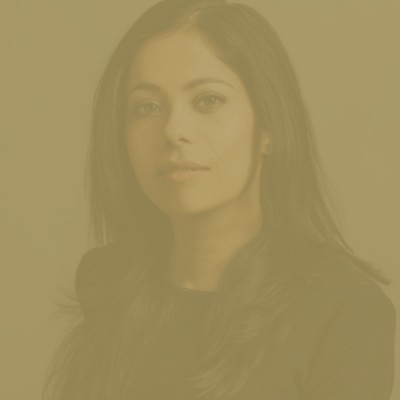
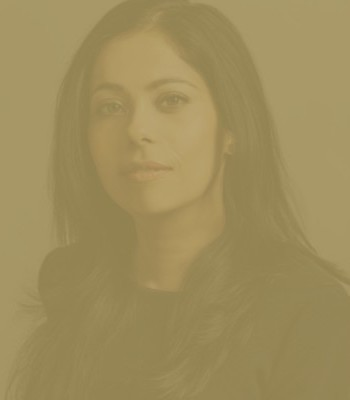
Worked on making senior professionals section responsive to different screen sizes.

diff --git a/src/Components/LandingPage/SmallSeniorExec.js b/src/Components/LandingPage/SmallSeniorExec.js
@@ -14,14 +14,14 @@ const useStyles = makeStyles(theme => ({
         position: 'absolute',
         fontSize: '18px',
         fontWeight: '100',
-        marginTop: '14%',
-        width : '23%',
+        marginTop: window.innerWidth <= 650 ? '40%' : '11%',
+        width : window.innerWidth < 900 ? window.innerWidth <= 650 ? '70%' : '35%' : '23%',
     },
     hovertext: {
         color: "white",
         fontSize: '24px',
-        width: '23%',
-        marginTop: '8%',
+        width : window.innerWidth < 900 ? window.innerWidth <= 650 ? '70%' : '35%' : '23%',
+        marginTop: window.innerWidth <= 650 ? '20%' : '4%',
         textAlign: 'center',
         position: 'absolute'
     }
@@ -59,7 +59,6 @@ class SmallSeniorExec extends Component {
   
   
   handleEnter = event => {
-       //event.preventDefault();
           this.setState({
               display2 : '',
               display1 : 'None',
@@ -70,8 +69,6 @@ class SmallSeniorExec extends Component {
   
   
   handleExit = event => {
-      //event.preventDefault();
-             
              this.setState({
              display2 : 'None',
              display1: '',
@@ -87,15 +84,15 @@ class SmallSeniorExec extends Component {
             
              <div className={classes.sectionstyle}>
 
-                <h3 className={classes.hovertext} style={{display: this.state.text}} onMouseEnter={this.handleEnter} 
+                <h3 className={classes.hovertext} style={{display: this.state.text, paddingLeft: '30px', paddingRight: '50px'}} onMouseEnter={this.handleEnter} 
                  onMouseLeave={this.handleExit}>{this.props.name_text}</h3>
-                <h3 className={classes.extratext} style={{display: this.state.text}} onMouseEnter={this.handleEnter} 
+                <h3 className={classes.extratext} style={{display: this.state.text, paddingLeft: '30px', paddingRight: '50px'}} onMouseEnter={this.handleEnter} 
                  onMouseLeave={this.handleExit}>{this.props.extra_text}</h3>
                 
-                <img style={{width: '100%', marginTop: '0vh', marginBottom:'4vh', display: this.state.display1, borderTopLeftRadius: '30%', borderBottomRightRadius: '30%'}} 
+                <img style={{width: '90%', marginTop: '0vh', marginBottom:'4vh', display: this.state.display1, borderTopLeftRadius: '5vw', borderBottomRightRadius: '12vw'}} 
                 onMouseEnter={this.handleEnter} src={this.props.image} alt="Senior Exec"/>
                 
-                <img style={{width: '100%', marginTop: '0vh', marginBottom:'4vh', display: this.state.display2, borderTopLeftRadius: '30%', borderBottomRightRadius: '30%'}} 
+                <img style={{width: '90%', marginTop: '0vh', marginBottom:'4vh', display: this.state.display2, borderTopLeftRadius: '5vw', borderBottomRightRadius: '12vw'}} 
                 onMouseLeave={this.handleExit} src={this.props.hover_image} alt="Senior Exec" /> 
 
          </div>

diff --git a/src/Components/LandingPage/SeniorExecGrid.js b/src/Components/LandingPage/SeniorExecGrid.js
@@ -48,8 +48,7 @@ class Membership extends Component {
 
 
 handleClick = event => {
-   //event.preventDefault();
-      if (window.innerWidth > '800px'){
+      if (window.innerWidth > '900px'){
           this.setState({
               phone : 'None',
               desktop : ''
@@ -68,7 +67,7 @@ handleClick = event => {
     const classes = this.props.classes;
     return(
       <div className={classes.seniorexec}>
-          <div className={classes.background} style={{display: window.innerWidth > 800 ? '' : 'None'}}>
+          <div className={classes.background} style={{display: window.innerWidth > 900 ? '' : 'None'}}>
           <Grid
             container
             spacing={2}
@@ -145,8 +144,7 @@ handleClick = event => {
             </Grid>
           </Grid>
         </div>
-
-          <div className={classes.background} style={{display: window.innerWidth > 800 ? 'None' : ''}}>
+          <div className={classes.background} style={{display: (window.innerWidth > 900 || window.innerWidth <= 650) ? 'None' : ''}}>
             <Grid
               container
               item xs={12}
@@ -157,7 +155,7 @@ handleClick = event => {
               > 
               <Grid
                 container
-                item xs={6} 
+                item xs={6}
                 alignItems="flex-end"
                 justify="flex-end"
               >
@@ -171,7 +169,7 @@ handleClick = event => {
               </Grid>
               <Grid
                 container
-                item xs={6} 
+                item xs={6}
                 spacing={0}
                 alignItems="center"
                 justify="center"
@@ -187,6 +185,32 @@ handleClick = event => {
               
               <SeniorExecText/>
               
+            </Grid>
+        </div>
+        <div className={classes.background} style={{display: window.innerWidth > 650 ? 'None' : ''}}>
+            <Grid
+              container
+              item xs={12}
+              spacing={0}
+              alignItems="center"
+              justify="center"
+              className={classes.grid}
+              > 
+              <Grid
+                container
+                item xs={12}
+                alignItems="flex-end"
+                justify="flex-end"
+              >
+              <SmallSeniorExec
+                name_text="Latafat Faran"
+                extra_text="Executive Vice President at Core Development Group"
+                image = {SmallSeniorExecImg}
+                hover_image = {SmallSeniorExecImgHover}
+              />
+              
+              </Grid>
+              <SeniorExecText/>
             </Grid>
         </div>
       </div>

diff --git a/src/Components/LandingPage/SeniorExecSmallBottom.js b/src/Components/LandingPage/SeniorExecSmallBottom.js
@@ -3,7 +3,7 @@ import {makeStyles} from "@material-ui/core/styles";
 
 const useStyles = makeStyles(theme => ({
     sectionstyle: {
-        width: "100vw",
+        width: "100%",
         height: "100%",
         margin: '0',
         padding: '0'
@@ -14,15 +14,14 @@ const useStyles = makeStyles(theme => ({
         position: 'absolute',
         fontSize: '18px',
         fontWeight: '100',
-        
-        marginTop: '14%',
-        width : '23%',
+        marginTop: '11%',
+        width : window.innerWidth < 900 ? '35%' : '23%',
     },
     hovertext: {
         color: "white",
         fontSize: '24px',
-        width : '23%',
-        marginTop: '8%',
+        width : window.innerWidth < 900 ? '35%' : '23%',
+        marginTop: '4%',
         textAlign: 'center',
         position: 'absolute'
     }
@@ -84,18 +83,16 @@ class SmallSeniorExecBottom extends Component {
         return(
             
              <div className={classes.sectionstyle}>
-                           
-            
 
-                <h3 className={classes.hovertext} style={{display: this.state.text}} onMouseEnter={this.handleEnter} 
+                <h3 className={classes.hovertext} style={{display: this.state.text, paddingLeft: '50px', paddingRight: '30px'}} onMouseEnter={this.handleEnter} 
                  onMouseLeave={this.handleExit}>{this.props.name_text}</h3>
-                <h3 className={classes.extratext} style={{display: this.state.text}} onMouseEnter={this.handleEnter} 
+                <h3 className={classes.extratext} style={{display: this.state.text, paddingLeft: '50px', paddingRight: '30px'}} onMouseEnter={this.handleEnter} 
                  onMouseLeave={this.handleExit}>{this.props.extra_text}</h3>
                 
-                <img style={{width: '100%', marginTop: '0vh', marginBottom:'4vh', display: this.state.display1, borderTopRightRadius: '30%', borderBottomLeftRadius: '30%'}} 
+                <img style={{width: '90%', marginTop: '0vh', marginBottom:'4vh', display: this.state.display1, borderTopRightRadius: '5vw', borderBottomLeftRadius: '12vw'}} 
                 onMouseEnter={this.handleEnter} src={this.props.image} alt="Senior Exec"/>
                 
-                <img style={{width: '100%', marginTop: '0vh', marginBottom:'4vh', display: this.state.display2, borderTopRightRadius: '30%', borderBottomLeftRadius: '30%'}} 
+                <img style={{width: '90%', marginTop: '0vh', marginBottom:'4vh', display: this.state.display2, borderTopRightRadius: '5vw', borderBottomLeftRadius: '12vw'}} 
                 onMouseLeave={this.handleExit} src={this.props.hover_image} alt="Senior Exec" /> 
          </div>
             

diff --git a/src/Components/LandingPage/SeniorExec.js b/src/Components/LandingPage/SeniorExec.js
@@ -12,13 +12,13 @@ const useStyles = makeStyles(theme => ({
         fontWeight: '100',
         textAlign: 'center',
         position: 'absolute',
-        marginTop: '100%',
+        marginTop: '85%',
         width : '100%',
     },
     hovertext: {
         color: "white",
         fontSize: '24px',
-        marginTop: '75%',
+        marginTop: '50%',
         textAlign: 'center',
         position: 'absolute',
         width : '100%',
@@ -56,7 +56,6 @@ handleImage = event => {
 
 
 handleEnter = event => {
-     //event.preventDefault();
         this.setState({
             display2 : '',
             display1 : 'None',
@@ -67,8 +66,6 @@ handleEnter = event => {
 
 
 handleExit = event => {
-    //event.preventDefault();
-           
            this.setState({
            display2 : 'None',
            display1: '',
@@ -86,15 +83,15 @@ handleExit = event => {
             
              <div className={classes.overallposition} style={{backgroundColor: this.state.color}} >
                  
-                <h3 className={classes.hovertext} style={{display: this.state.text}} onMouseEnter={this.handleEnter} 
+                <h3 className={classes.hovertext} style={{display: this.state.text, paddingLeft: '30px', paddingRight: '30px'}} onMouseEnter={this.handleEnter} 
                  onMouseLeave={this.handleExit}>{this.props.name_text}</h3>
-                <h3 className={classes.extratext} style={{display: this.state.text}} onMouseEnter={this.handleEnter} 
+                <h3 className={classes.extratext} style={{display: this.state.text, paddingLeft: '30px', paddingRight: '30px'}} onMouseEnter={this.handleEnter} 
                  onMouseLeave={this.handleExit}>{this.props.extra_text}</h3>
                 
-                <img style={{width: '100%', marginTop: '0vh', display: this.state.display1, borderTopLeftRadius: '20%', borderBottomRightRadius: '20%'}} 
+                <img style={{width: '100%', marginTop: '0vh', display: this.state.display1, borderTopLeftRadius: '5vw', borderBottomRightRadius: '12vw'}} 
                 onMouseEnter={this.handleEnter} src={this.props.image} alt="Senior Exec"/>
                 
-                <img style={{width: '100%', marginTop: '0vh', display: this.state.display2, borderTopLeftRadius: '20%', borderBottomRightRadius: '20%'}} 
+                <img style={{width: '100%', marginTop: '0vh', display: this.state.display2, borderTopLeftRadius: '5vw', borderBottomRightRadius: '12vw'}} 
                 onMouseLeave={this.handleExit} src={this.props.hover_image} alt="Senior Exec" />            
                  
          </div>
